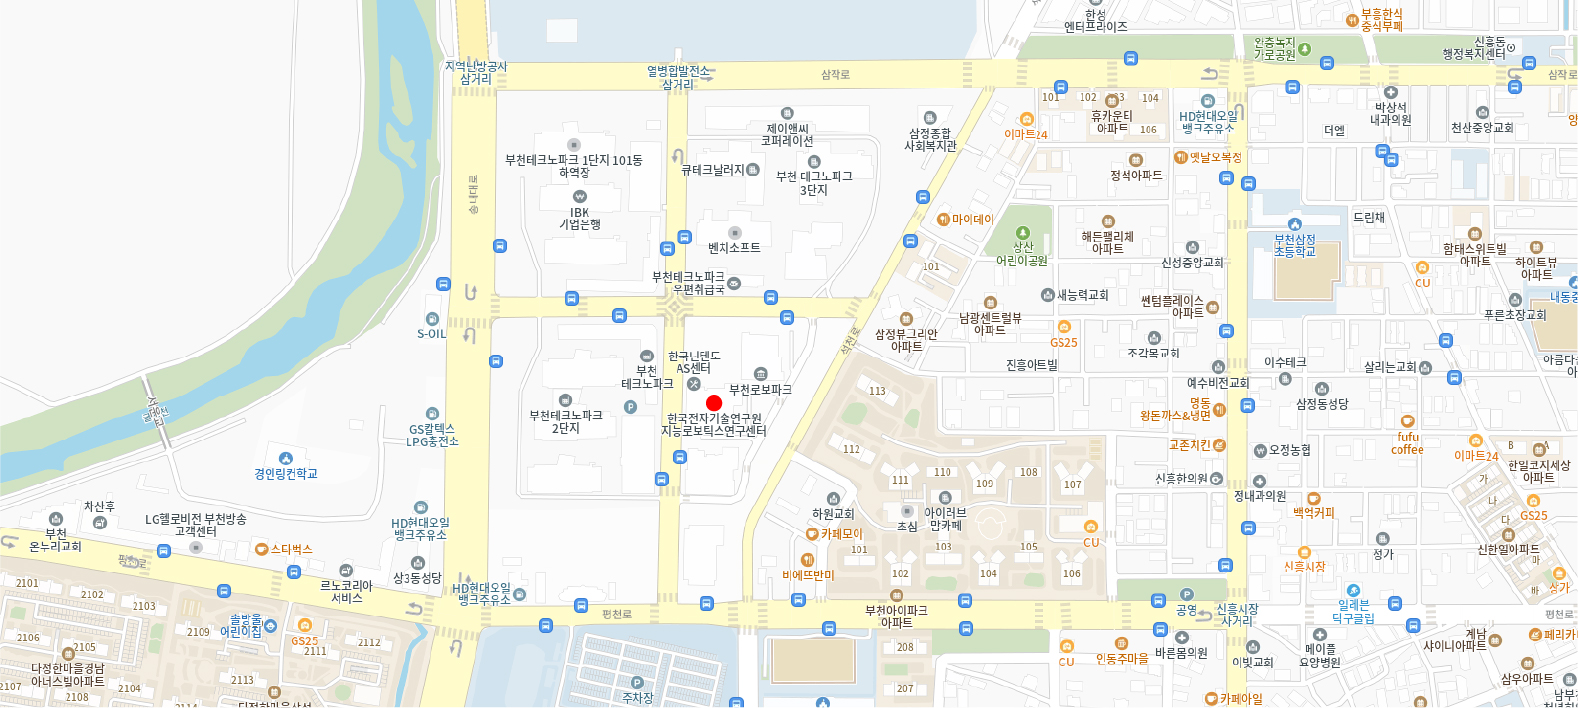
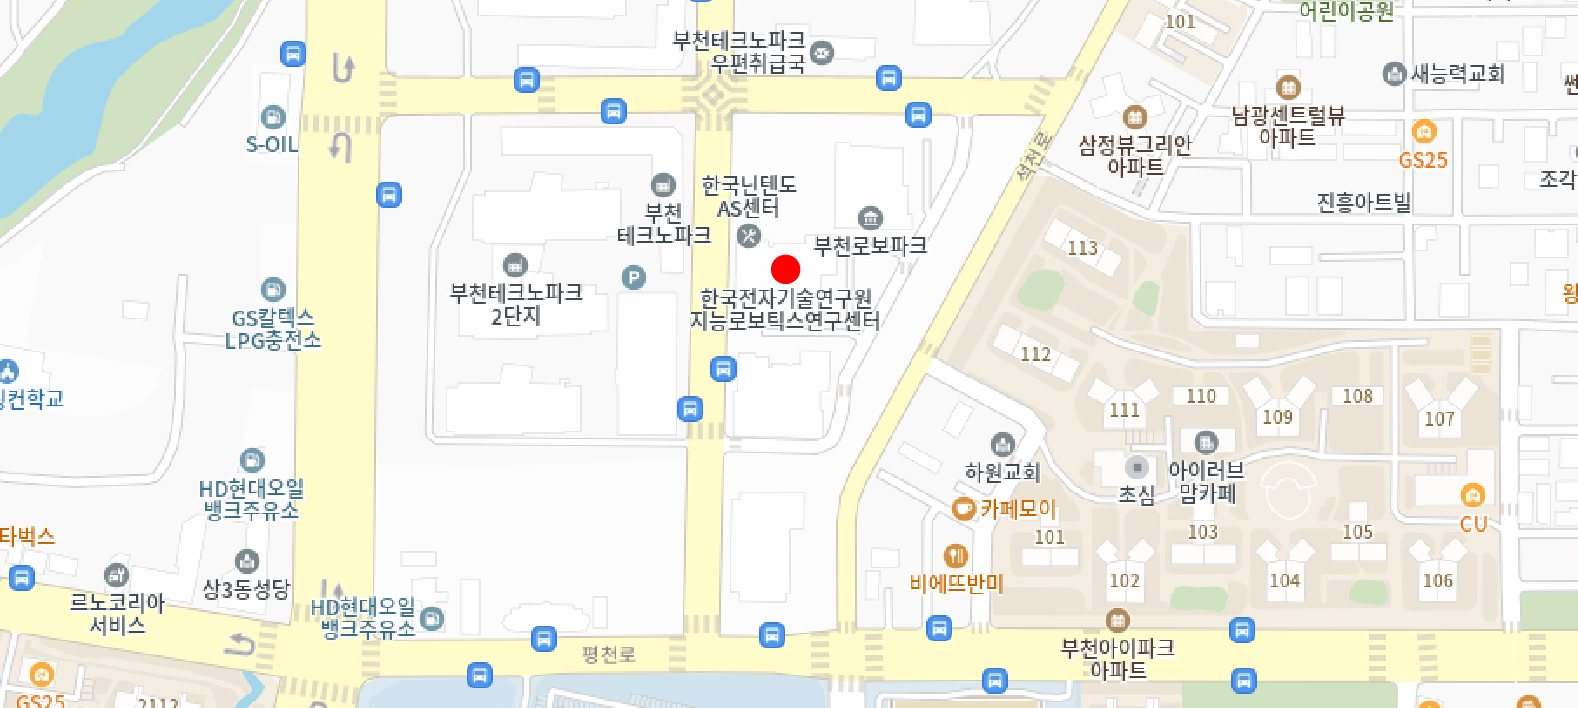
feat: update functionality

diff --git a/src/pages/AboutPage.jsx b/src/pages/AboutPage.jsx
@@ -102,15 +102,15 @@ export default function AboutPage({ nav, site, location }) {
         <SectionHeader title="오시는 길" />
         <div style={{ background: "#fff", borderRadius: 12, border: "1px solid #e2e8f0", padding: 28 }}>
           <div style={{ display: "grid", gridTemplateColumns: "1fr 1fr", gap: 24, alignItems: "center" }}>
-            <div style={{ width: "100%", borderRadius: 8, overflow: "hidden", flexShrink: 0, position: "relative" }}>
+            <div style={{ width: "100%", height: 200, borderRadius: 8, overflow: "hidden", flexShrink: 0, position: "relative" }}>
               {location.mapImage
-                ? <img src={location.mapImage} alt="오시는 길 약도" style={{ width: "100%", height: 200, objectFit: "cover", display: "block" }} onError={(e) => { e.currentTarget.style.display = "none"; e.currentTarget.nextSibling.style.display = "flex"; }} />
+                ? <img src={location.mapImage} alt="오시는 길 약도" style={{ width: "100%", height: "100%", objectFit: "cover", display: "block" }} onError={(e) => { e.currentTarget.style.display = "none"; e.currentTarget.nextSibling.style.display = "flex"; }} />
                 : null}
-              <div style={{ display: location.mapImage ? "none" : "flex", height: 200, background: "#f1f5f9", border: "1px solid #e2e8f0", borderRadius: 8, flexDirection: "column", alignItems: "center", justifyContent: "center", gap: 14 }}>
+              <div style={{ display: location.mapImage ? "none" : "flex", width: "100%", height: "100%", background: "#f1f5f9", flexDirection: "column", alignItems: "center", justifyContent: "center", gap: 14 }}>
                 <MapPin size={32} color="#94a3b8" />
                 <p style={{ fontSize: 13, color: "#64748b", margin: 0 }}>아래 버튼을 눌러 지도를 확인하세요.</p>
               </div>
-              <a href={location.mapLink} target="_blank" rel="noopener noreferrer" style={{ display: "block", background: "#FEE500", color: "#191919", padding: "10px 0", textAlign: "center", fontSize: 13, fontWeight: 700, textDecoration: "none" }}>카카오맵에서 보기</a>
+              <a href={location.mapLink} target="_blank" rel="noopener noreferrer" style={{ position: "absolute", bottom: 0, left: 0, right: 0, display: "block", background: "rgba(254,229,0,0.92)", color: "#191919", padding: "8px 0", textAlign: "center", fontSize: 13, fontWeight: 700, textDecoration: "none" }}>카카오맵에서 보기</a>
             </div>
             <div style={{ display: "grid", gridTemplateColumns: "18px max-content 1fr", columnGap: 10, rowGap: 22, alignItems: "start", textAlign: "left", paddingLeft: 16 }}>
               {[[<MapPin size={15} key="pin" />, "주소", location.address], [<Mail size={15} key="mail" />, "이메일", location.email], [<Globe size={15} key="globe" />, "웹사이트", location.website]].flatMap(([icon, label, val], i) => [
